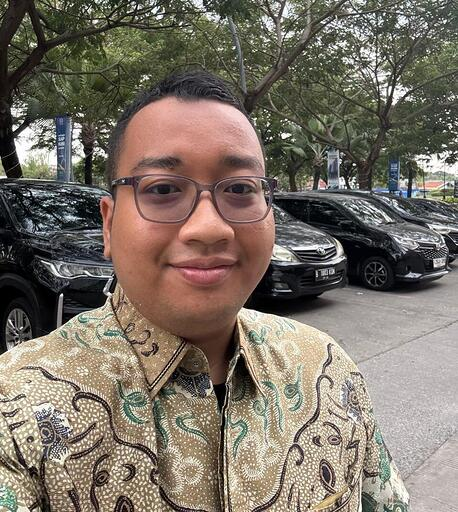
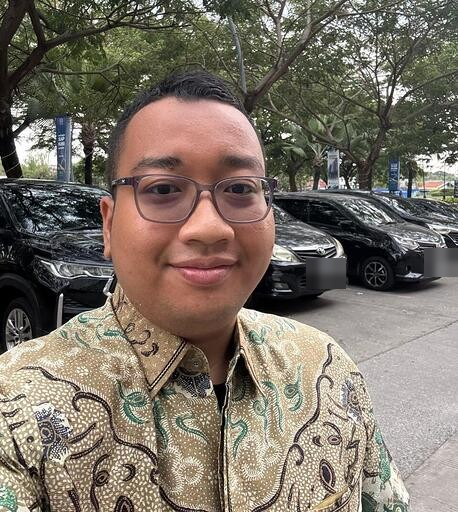
Redact employer details, blur photo plates, public README and license
- Resume: drop the airline booster mention, describe partner suppression as a
  partner ranking control, and keep the boot-memory result as ~12% only.
- Photo: pixelate two car plates in the background.
- README rewritten for a public audience: run, build, edit, versions, PDFs,
  local phone PDFs, deploy, troubleshooting.
- MIT license for the code; resume content and photo stay all rights reserved.
- THIRD-PARTY-NOTICES.md for fonts, Lucide, Tailwind CSS, daisyUI, anti-slop.

Changed region(s): [[0.917, 0.4688, 1.0, 0.5625], [0.6725, 0.5, 0.7642, 0.5625]]

diff --git a/src/lib/resume.ts b/src/lib/resume.ts
@@ -38,7 +38,7 @@ export function companyRange(exp: Experience): string {
 }
 
 const NBSP = '\u00a0';
-/** Non-breaking spaces around → and × keep "659 → 582" and "Shop × Tokopedia" on one line. */
+/** Non-breaking spaces around → and × keep "2 → 3" and "Shop × Tokopedia" on one line. */
 export const glueSymbols = (text: string) =>
   text.replaceAll(' → ', `${NBSP}→${NBSP}`).replaceAll(' × ', `${NBSP}×${NBSP}`);
 

diff --git a/README.md b/README.md
@@ -1,66 +1,148 @@
-# Agas Yanpratama: resume
+# Agas Yanpratama · Resume
 
-Resume as code. One YAML file per version renders to a web page and an ATS-safe PDF, deployed on Cloudflare Pages.
+My resume as code. One YAML file per version builds a web page and two PDFs: a full resume (up to 2 pages) and a 1-page version. It deploys as a static site on Cloudflare Pages.
 
-Built with Astro 7, Tailwind CSS 4, daisyUI 5, and pdfmake (PDF generated at build time, no headless browser).
+- Each version is one file, such as `src/data/resumes/2026-09.yaml`; `src/config.ts` picks the live one.
+- The build makes two ATS-safe PDFs with selectable text and fails if either runs past its page budget.
+- The phone number stays in a local `.env`. It never reaches the site, the public PDFs or this repo.
+- The site has light and dark themes, works from phone to desktop, and meets WCAG AA contrast.
+
+Built with [Astro](https://astro.build) 7, [Tailwind CSS](https://tailwindcss.com) 4, [daisyUI](https://daisyui.com) 5 and [pdfmake](https://pdfmake.github.io/docs/).
+
+## Run it locally
+
+You need **Node.js 22.12 or newer** (`.node-version` pins Node 22) and npm.
+
+```bash
+git clone https://github.com/agasyan/cv.git
+cd cv
+npm install
+npm run dev
+```
+
+Open <http://localhost:4321>. The page reloads when you edit files. Stop it with `Ctrl+C`.
+
+If an AI coding agent runs `npm run dev`, Astro starts it in the background. Stop it with `npx astro dev stop`; read its output with `npx astro dev logs`.
+
+To check the production build:
+
+```bash
+npm run build     # static site and both PDFs in dist/
+npm run preview   # serve dist/ at http://localhost:4321
+```
 
 ## Commands
 
 | Command | What it does |
 |---|---|
-| `npm install` | Install dependencies (Node 22.12+) |
-| `npm run dev` | Local site at `localhost:4321`, with version previews and the phone PDFs |
-| `npm run build` | Build the static site, `/resume.pdf` (full, ≤ 2 pages) and `/resume-compact.pdf` (1 page) into `dist/`. Fails if a PDF runs past its page budget. |
+| `npm install` | Install dependencies |
+| `npm run dev` | Start the local site with hot reload, version previews and the local-only phone PDFs |
+| `npm run build` | Build `dist/`: the site, `/resume.pdf` (full, ≤ 2 pages) and `/resume-compact.pdf` (1 page) |
 | `npm run preview` | Serve the built `dist/` |
-| `npm run check` | Type-check Astro and TypeScript |
-| `npm run deploy` | Build and upload `dist/` to Cloudflare Pages with Wrangler |
+| `npm run check` | Type-check the Astro and TypeScript code |
+| `npm run deploy` | Build, then upload `dist/` to Cloudflare Pages with Wrangler |
+
+## Edit the resume
+
+All content lives in `src/data/resumes/YYYY-MM.yaml`, validated by the schema in `src/content.config.ts`. A missing or malformed field fails the build with a clear message (unknown field names are ignored, so check spelling).
+
+| Field | What it holds |
+|---|---|
+| `profile` | Name, headline, email, LinkedIn, GitHub, location |
+| `summary`, `summaryCompact` | Summary for the full resume, and a shorter one for the 1-page PDF |
+| `highlights` | The headline numbers in the band under the summary (web only) |
+| `experience` | Companies, each with `roles` and their `bullets`; optional `stack` line |
+| `projects` | Side projects with bullets and a stack list |
+| `education`, `publications`, `certifications`, `skills` | The rest |
+
+Writing rules:
+
+- `**text**` marks the one number in a bullet a recruiter should see. It becomes a highlight on the web and bold in the PDF.
+- `compact: [1, 3]` on a role or project picks which bullets (1-based) the 1-page PDF keeps. Without it, only the first bullet is kept. `compact: false` on a skill group leaves it out of the 1-page PDF.
+- Content rules, voice and design rules are in [`guidelines/`](#guidelines).
 
 ## Versions
 
-- Each version is `src/data/resumes/YYYY-MM.yaml` with a `version` number and a `changes` list. v1 is `2026-09`.
-- `src/config.ts` → `PUBLISHED_VERSION` decides what the site serves: `'latest'` (highest `version`) or a pinned id such as `'2026-09'`. Visitors never switch versions.
-- New version: copy the latest file to the new month, bump `version`, replace `changes`, edit. Preview it with `npm run dev` at `/v/YYYY-MM/` (PDFs at `/resume/YYYY-MM.pdf` and `/resume/YYYY-MM-compact.pdf`). These preview routes are not built for production.
-- `compact: [1, 3]` on a role or project picks the bullets the 1-page PDF keeps; `summaryCompact` is its shorter summary.
+1. Copy the latest file to the new month, e.g. `src/data/resumes/2026-10.yaml`.
+2. Bump `version` and replace the `changes` list.
+3. Edit, then preview locally at `/v/2026-10/` (PDFs at `/resume/2026-10.pdf` and `/resume/2026-10-compact.pdf`).
+4. Publish by leaving `PUBLISHED_VERSION = 'latest'` in `src/config.ts`, or pin an older id such as `'2026-09'` to roll back.
+
+Preview routes exist only in `npm run dev`; production builds only the published version.
+
+## PDFs
+
+| | Full | Compact |
+|---|---|---|
+| URL | `/resume.pdf` | `/resume-compact.pdf` |
+| Page budget | 2 pages max | exactly 1 page |
+| Content | everything | `summaryCompact` and the `compact` picks; no publications, certifications, stack lines or project taglines |
+
+Both are A4, single column, with embedded fonts and no tables or images, so applicant tracking systems can read them. If an edit pushes a PDF past its budget, `npm run build` stops with a message such as `Resume 2026-09 compact PDF is 2 pages; the limit is 1.` Shorten bullets or change the `compact` picks.
 
 ## Phone number (local only)
 
-The phone number is never on the site or in the public PDFs.
+1. `cp .env.example .env`, then set `RESUME_PHONE` in `.env`.
+2. Run `npm run dev` (restart it after editing `.env`). A bar under the header offers the full and 1-page PDFs with your number in the contact line.
 
-1. `cp .env.example .env` and set `RESUME_PHONE`.
-2. `npm run dev`. A bar under the navbar offers the **full** and **1-page** PDFs with your number in the contact line.
+`.env` is gitignored, and production builds never use the phone value.
 
-`.env` is gitignored.
+## Deploy to Cloudflare Pages
 
-## Deploy (Cloudflare Pages)
+**Git integration (recommended).** In the Cloudflare dashboard, create a Pages project from this GitHub repo:
 
-Git integration: connect `agasyan/cv` and name the Pages project `agas-cv` (it matches `wrangler.toml` and the default `SITE_URL`; otherwise the repo name `cv` becomes the project name). Framework preset Astro, build command `npm run build`, output directory `dist`, root directory left empty (the build runs from the repo root). `.node-version` pins Node 22. Optional env var `SITE_URL` sets the canonical URL once a custom domain is attached (default `https://agas-cv.pages.dev`).
+- Project name: `agas-cv` (matches `wrangler.toml`)
+- Framework preset: Astro
+- Build command: `npm run build`
+- Build output directory: `dist`
+- Root directory: leave empty
+- Optional environment variable: `SITE_URL`, the canonical URL once a custom domain is attached (default `https://agas-cv.pages.dev`)
 
-Direct upload instead: `npx wrangler login`, then `npm run deploy` (project name in `wrangler.toml`).
+Every push to `main` then deploys the site.
+
+**Direct upload.** Run `npx wrangler@4 login` once, then `npm run deploy`.
+
+## Project structure
+
+```
+src/
+  config.ts                    PUBLISHED_VERSION: which version is live
+  content.config.ts            resume schema (Zod)
+  data/resumes/YYYY-MM.yaml    one file per version
+  lib/resume.ts                version loading, dates, PDF page budgets
+  assets/profile.jpg           photo (web only)
+  components/                  page sections, header, footer, icons
+  layouts/Base.astro           <head>, theme boot script, skip link
+  pages/index.astro            the published resume
+  pages/resume.pdf.ts          full PDF
+  pages/resume-compact.pdf.ts  1-page PDF
+  pages/v/, pages/resume/      dev-only previews and phone PDFs
+  pages/404.astro              not-found page
+  pdf/build.ts                 PDF layout (pdfmake)
+  pdf/fonts/                   fonts embedded in the PDFs
+  styles/global.css            theme tokens (light and dark)
+guidelines/                    design, content and voice rules
+public/                        favicon, Cloudflare headers
+```
 
 ## Guidelines
 
 | File | Read it before |
 |---|---|
-| [`guidelines/DESIGN.md`](guidelines/DESIGN.md) | Any UI or PDF change |
-| [`guidelines/RESUME-BEST-PRACTICE-CONTENT.md`](guidelines/RESUME-BEST-PRACTICE-CONTENT.md) | Any change to resume text |
-| [`guidelines/PERSONALIZED.md`](guidelines/PERSONALIZED.md) | Writing any copy, so it reads in the owner's voice |
-| [`guidelines/antislop/`](guidelines/antislop/README.md) | The anti-slop counterparts (vendored, MIT) |
+| [`guidelines/DESIGN.md`](guidelines/DESIGN.md) | Changing the UI or the PDFs |
+| [`guidelines/RESUME-BEST-PRACTICE-CONTENT.md`](guidelines/RESUME-BEST-PRACTICE-CONTENT.md) | Changing resume text |
+| [`guidelines/PERSONALIZED.md`](guidelines/PERSONALIZED.md) | Writing any copy, so it reads in my voice |
+| [`guidelines/antislop/`](guidelines/antislop/README.md) | The anti-slop counterparts of the three files above |
 
-## Layout
+## Troubleshooting
 
-```
-src/
-  config.ts                  PUBLISHED_VERSION
-  content.config.ts          resume schema (Zod)
-  data/resumes/YYYY-MM.yaml  one file per version
-  lib/resume.ts              version loading, dates, PDF page budgets
-  assets/profile.jpg         photo (web only)
-  layouts/Base.astro         <head>, theme boot script, skip link
-  pages/index.astro          the published resume
-  pages/404.astro            not-found page
-  pages/resume.pdf.ts        the published full PDF (≤ 2 pages)
-  pages/resume-compact.pdf.ts  the published 1-page PDF
-  pages/v/, pages/resume/    dev-only previews and the phone PDF
-  pdf/build.ts, pdf/fonts/   PDF renderer and embedded fonts (OFL)
-  components/, styles/       UI
-```
+- **Content edits don't show up in dev** (usually after changing the schema): restart with `npm run dev -- --force` to clear Astro's content cache.
+- **Build stops with "PDF is N pages; the limit is M"**: see [PDFs](#pdfs).
+- **npm warns (`EBADENGINE`) or Astro won't start**: install Node 22.12 or newer.
+- **"Another astro dev server is already running"**: stop the old one with `npx astro dev stop`.
+
+## License
+
+- **Code:** MIT, see [`LICENSE`](LICENSE). Fork it for your own resume.
+- **Resume content and photo** (`src/data/resumes/`, `src/assets/profile.jpg`): mine, all rights reserved. Replace them with your own.
+- **Third-party parts** (fonts, icons, Tailwind CSS, daisyUI, anti-slop rules) keep their own licenses; see [`THIRD-PARTY-NOTICES.md`](THIRD-PARTY-NOTICES.md).

diff --git a/THIRD-PARTY-NOTICES.md b/THIRD-PARTY-NOTICES.md
@@ -1,0 +1,60 @@
+# Third-party notices
+
+This repository includes or bundles the following third-party material.
+
+| Material | Where | License |
+|---|---|---|
+| Source Sans 3, Source Serif 4 (fonts, embedded in the PDFs) | `src/pdf/fonts/` | SIL Open Font License 1.1, see `src/pdf/fonts/OFL-*.txt` |
+| Source Sans 3, Source Serif 4 (web fonts via Fontsource) | npm packages `@fontsource-variable/*` | SIL Open Font License 1.1 |
+| Tailwind CSS | compiled into the site CSS | MIT, Copyright (c) Tailwind Labs, Inc. |
+| daisyUI | compiled into the site CSS | MIT, Copyright (c) 2020 Pouya Saadeghi |
+| anti-slop rule files | `guidelines/antislop/` | MIT, see `guidelines/antislop/LICENSE` |
+| Lucide icon paths (inlined SVG) | `src/components/Icon.astro` | ISC, reproduced below |
+
+## Lucide
+
+```
+ISC License
+
+Copyright (c) 2026 Lucide Icons and Contributors
+
+Permission to use, copy, modify, and/or distribute this software for any
+purpose with or without fee is hereby granted, provided that the above
+copyright notice and this permission notice appear in all copies.
+
+THE SOFTWARE IS PROVIDED "AS IS" AND THE AUTHOR DISCLAIMS ALL WARRANTIES
+WITH REGARD TO THIS SOFTWARE INCLUDING ALL IMPLIED WARRANTIES OF
+MERCHANTABILITY AND FITNESS. IN NO EVENT SHALL THE AUTHOR BE LIABLE FOR
+ANY SPECIAL, DIRECT, INDIRECT, OR CONSEQUENTIAL DAMAGES OR ANY DAMAGES
+WHATSOEVER RESULTING FROM LOSS OF USE, DATA OR PROFITS, WHETHER IN AN
+ACTION OF CONTRACT, NEGLIGENCE OR OTHER TORTIOUS ACTION, ARISING OUT OF
+OR IN CONNECTION WITH THE USE OR PERFORMANCE OF THIS SOFTWARE.
+
+---
+
+The following Lucide icons are derived from the Feather project:
+
+airplay, alert-circle, alert-octagon, alert-triangle, aperture, arrow-down-circle, arrow-down-left, arrow-down-right, arrow-down, arrow-left-circle, arrow-left, arrow-right-circle, arrow-right, arrow-up-circle, arrow-up-left, arrow-up-right, arrow-up, at-sign, calendar, cast, check, chevron-down, chevron-left, chevron-right, chevron-up, chevrons-down, chevrons-left, chevrons-right, chevrons-up, circle, clipboard, clock, code, columns, command, compass, corner-down-left, corner-down-right, corner-left-down, corner-left-up, corner-right-down, corner-right-up, corner-up-left, corner-up-right, crosshair, database, divide-circle, divide-square, dollar-sign, download, external-link, feather, frown, hash, headphones, help-circle, info, italic, key, layout, life-buoy, link-2, link, loader, lock, log-in, log-out, maximize, meh, minimize, minimize-2, minus-circle, minus-square, minus, monitor, moon, more-horizontal, more-vertical, move, music, navigation-2, navigation, octagon, pause-circle, percent, plus-circle, plus-square, plus, power, radio, rss, search, server, share, shopping-bag, sidebar, smartphone, smile, square, table-2, tablet, target, terminal, trash-2, trash, triangle, tv, type, upload, x-circle, x-octagon, x-square, x, zoom-in, zoom-out
+
+The MIT License (MIT) (for the icons listed above)
+
+Copyright (c) 2013-present Cole Bemis
+
+Permission is hereby granted, free of charge, to any person obtaining a copy
+of this software and associated documentation files (the "Software"), to deal
+in the Software without restriction, including without limitation the rights
+to use, copy, modify, merge, publish, distribute, sublicense, and/or sell
+copies of the Software, and to permit persons to whom the Software is
+furnished to do so, subject to the following conditions:
+
+The above copyright notice and this permission notice shall be included in all
+copies or substantial portions of the Software.
+
+THE SOFTWARE IS PROVIDED "AS IS", WITHOUT WARRANTY OF ANY KIND, EXPRESS OR
+IMPLIED, INCLUDING BUT NOT LIMITED TO THE WARRANTIES OF MERCHANTABILITY,
+FITNESS FOR A PARTICULAR PURPOSE AND NONINFRINGEMENT. IN NO EVENT SHALL THE
+AUTHORS OR COPYRIGHT HOLDERS BE LIABLE FOR ANY CLAIM, DAMAGES OR OTHER
+LIABILITY, WHETHER IN AN ACTION OF CONTRACT, TORT OR OTHERWISE, ARISING FROM,
+OUT OF OR IN CONNECTION WITH THE SOFTWARE OR THE USE OR OTHER DEALINGS IN THE
+SOFTWARE.
+```

diff --git a/guidelines/PERSONALIZED.md b/guidelines/PERSONALIZED.md
@@ -16,7 +16,7 @@ A senior backend engineer telling another engineer what he shipped, with the num
 
 1. **Lead with the point.** The first two or three words carry the line ("Cut boot memory", "Moved ranking to the server").
 2. **Short sentences.** Aim for 15 words or fewer; never over 25. Two actions in one bullet get a semicolon, not a chain of "and".
-3. **Numbers, not adjectives.** "~12% (659 → 582 MiB)" instead of "significantly reduced".
+3. **Numbers, not adjectives.** "cut boot memory ~12%" instead of "significantly reduced memory usage".
 4. **Engineer's words, not brochure words.** Use the words used at work (table below).
 5. **No hype, no praise, no hedges.** Nothing is "robust", "seamless", or "cutting-edge". Nothing "might" or "helps to".
 6. **One word per concept.** If it is a "tech plan" once, it is a "tech plan" everywhere.
@@ -48,8 +48,8 @@ A senior backend engineer telling another engineer what he shipped, with the num
 
 | Before | After |
 |---|---|
-| Career spans search-ads ranking at Tokopedia, …, the #1 travel app in MENA and APAC. | Search-ads ranking at Tokopedia (TopAds), then search-ads delivery at TikTok. Now ads ranking and partner monetization at Wego. |
-| Re-architected Flight Details ranking: moved … and published grouped sections with full scoring telemetry for analysts. | Moved Flight Details ranking to the server: added Sponsored/Recommended/Other sections, removed a legacy airline booster, and logged full scoring data for analysts. |
+| Career spans search-ads ranking at Tokopedia, search-ads delivery at TikTok, and ads ranking at Wego. | Search-ads ranking at Tokopedia (TopAds), then search-ads delivery at TikTok. Now ads ranking and partner monetization at Wego. |
+| Re-architected Flight Details ranking: moved sectioning server-side and published grouped sections with full scoring telemetry for analysts. | Moved Flight Details ranking to the server: added Sponsored/Recommended/Other sections and logged full scoring data for analysts. |
 | Ran tech plans, implementation, and automated PR review through Claude Code across an unfamiliar polyglot codebase. | Used Claude Code for tech plans, implementation, and automated PR review; the team adopted the automated review. |
 | Redesigned the ads container service to meet the integration timeline while preserving the long-term architecture. | Redesigned the ads container service to hit the integration deadline without breaking the long-term architecture. |
 

diff --git a/guidelines/RESUME-BEST-PRACTICE-CONTENT.md b/guidelines/RESUME-BEST-PRACTICE-CONTENT.md
@@ -31,7 +31,6 @@ Research date: September 2026. Sources are linked inline and listed at the end.
 - Three to five short sentences. State the two or three most impressive facts in plain words ([interviewing.io](https://interviewing.io/blog/stop-trying-to-make-recruiters-think-or-why-your-resume-is-bad-and-how-to-fix-it)).
 - Implied first person ("Ships…", "Directs…"). No "I", no buzzwords, no "passionate".
 - Keep the numbers honest: 6 years total, 5+ in ads and search (since March 2021).
-- Company claims come from the company's own words. "The #1 travel app in MENA and APAC" is Wego's wording on [company.wego.com/about](https://company.wego.com/about/).
 
 ## Bullets
 
